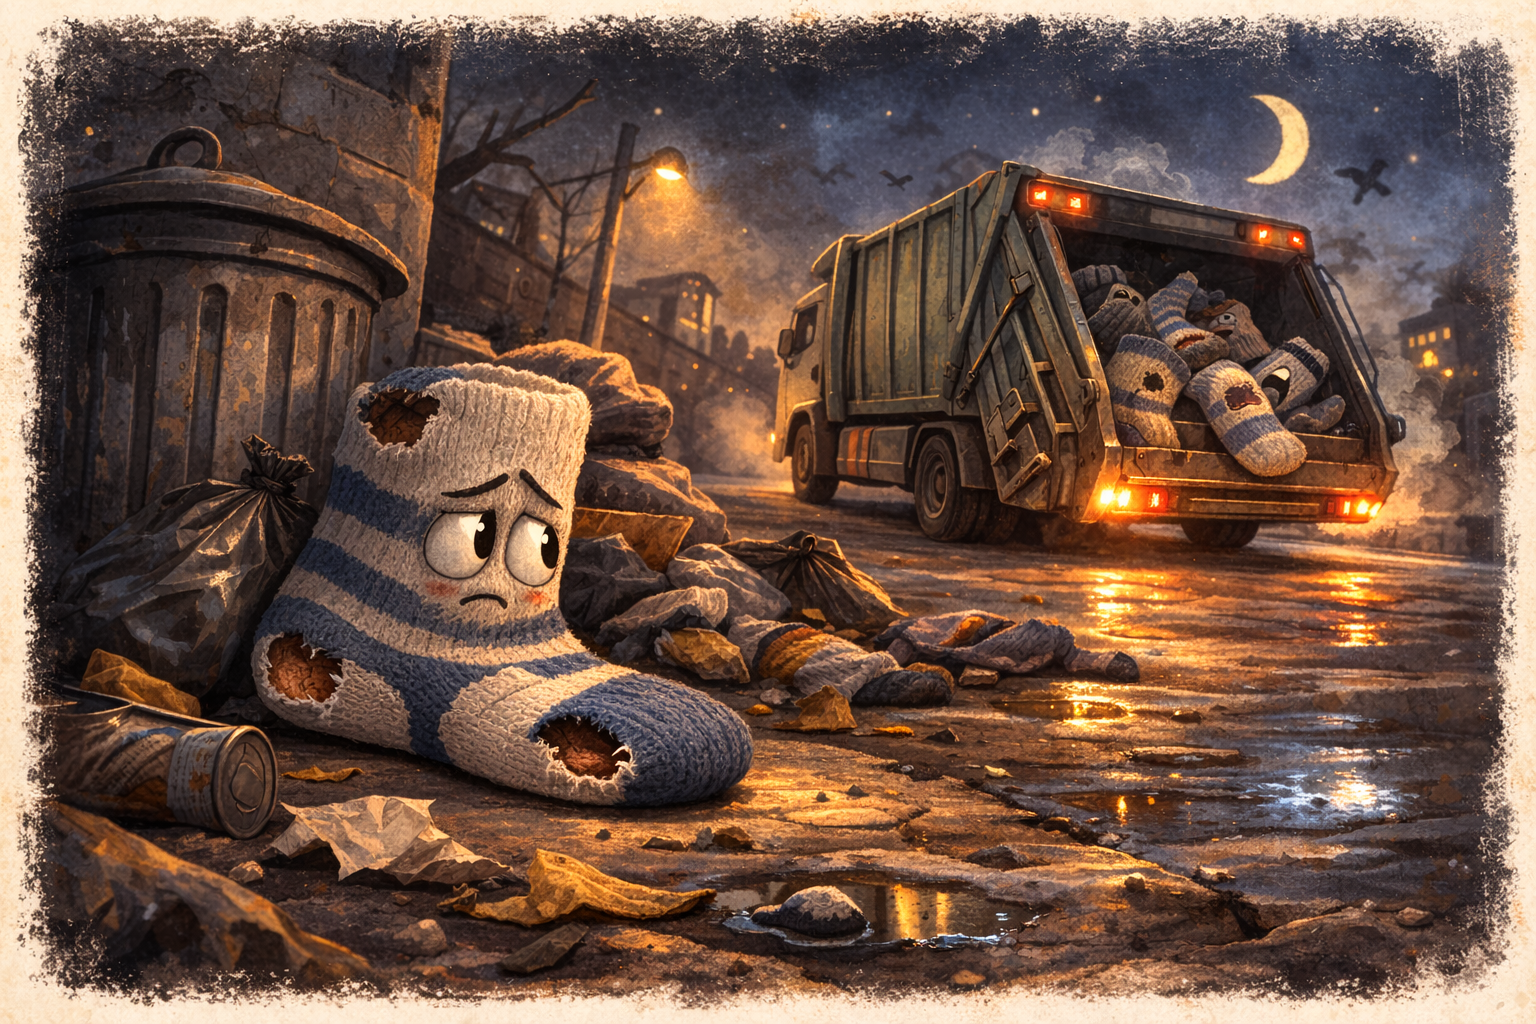
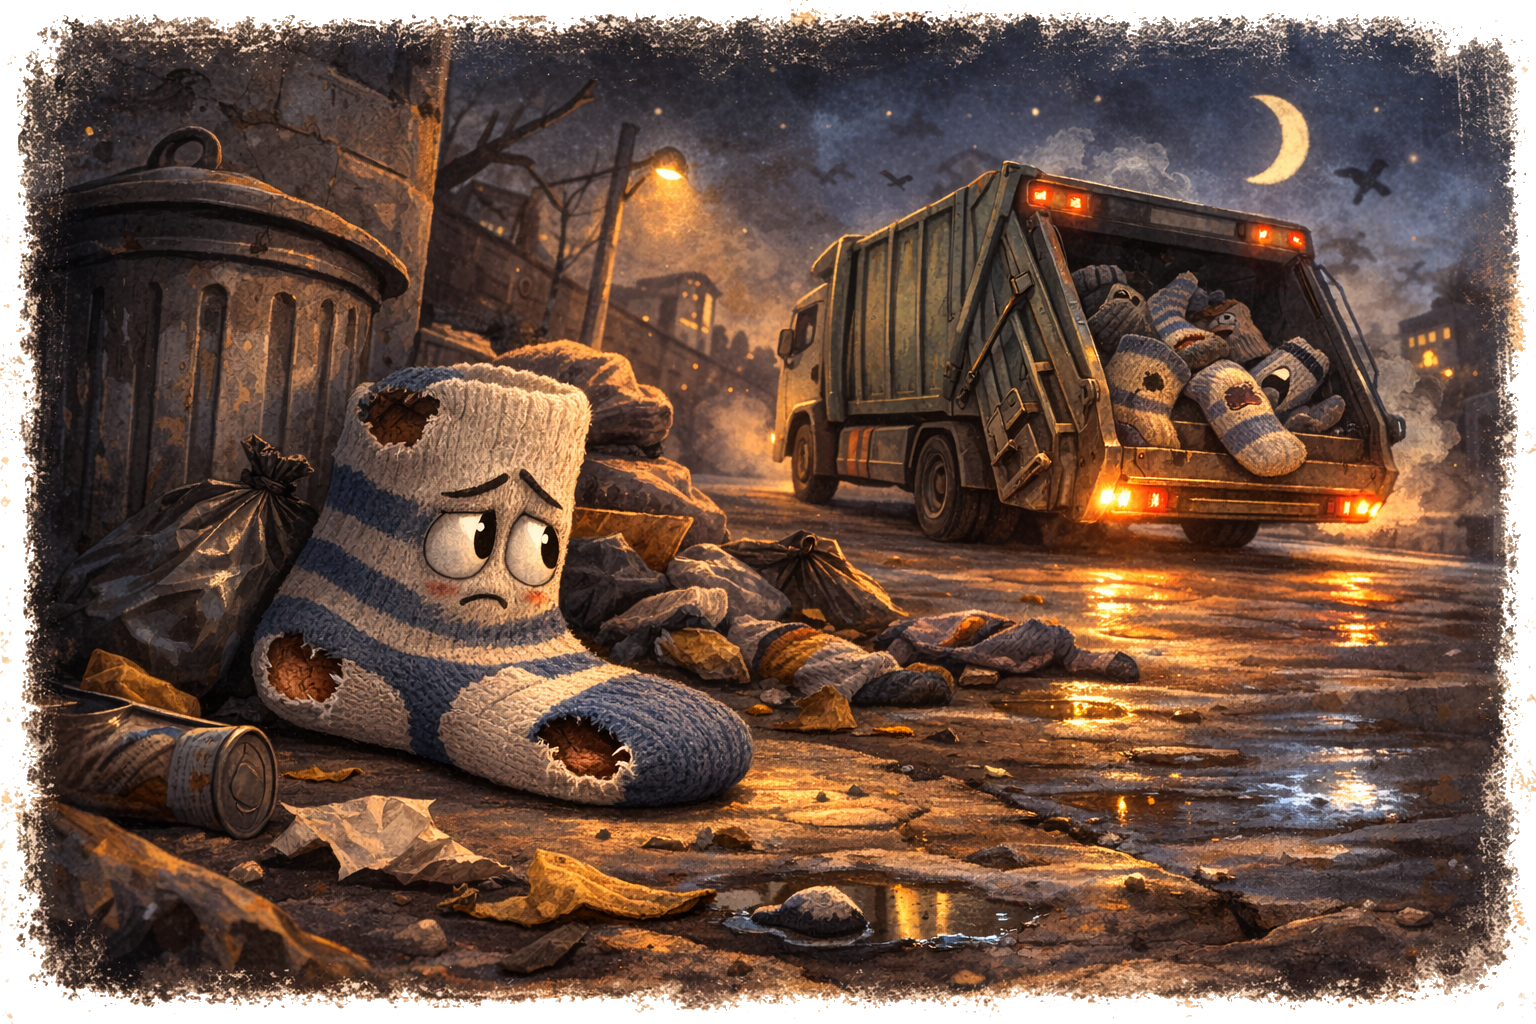
-

Changed region(s): [[0.0, 0.0, 1.0, 1.0]]

diff --git a/_stories/sock.md b/_stories/sock.md
@@ -10,7 +10,7 @@ cover: "/assets/img/sock/poster.png"
 Однажды.. у меня порвался носок!
 Ну, порвался и порвался. С кем не бывает. 
 
-![описание]({{ "/assets/img/sock/1.png" | relative_url }})
+![описание]({{ "/assets/img/sock/1_p.png" | relative_url }})
 
 Но вот, я задумался.
 > Носков же двое?  
@@ -26,7 +26,7 @@ cover: "/assets/img/sock/poster.png"
 И никак иначе. 
 ```
 
-![описание]({{ "/assets/img/sock/2.png" | relative_url }})
+![описание]({{ "/assets/img/sock/2_p.png" | relative_url }})
 
 Другое мне в голову даже не пришло.
 
@@ -55,7 +55,7 @@ cover: "/assets/img/sock/poster.png"
 
 Ты там рождаешься.
 
-![описание]({{ "/assets/img/sock/3.png" | relative_url }})
+![описание]({{ "/assets/img/sock/3_p.png" | relative_url }})
 
 Тебя покупают. 
 
@@ -90,7 +90,7 @@ cover: "/assets/img/sock/poster.png"
 Трагедия.
 ```
 
-![описание]({{ "/assets/img/sock/4.png" | relative_url }})
+![описание]({{ "/assets/img/sock/4_p.png" | relative_url }})
 
 Постойте, но ведь их было двое! 
 А как мы помним, одного из них зовут **Кеша**, а второго **Жора**.
@@ -120,7 +120,7 @@ cover: "/assets/img/sock/poster.png"
 
 Либо его хлопковое бездыханное тело лежит где-то на свалке либо едет в специальной машине, на переработку, в далекое Подмосковье.
 
-![описание]({{ "/assets/img/sock/5.png" | relative_url }})
+![описание]({{ "/assets/img/sock/5_p.png" | relative_url }})
 
 И более того. Он едет туда не один. 
 А с другими, такими же порванными ранее **Кешами**.
@@ -131,6 +131,6 @@ cover: "/assets/img/sock/poster.png"
 
 Такой он, "**носковый**" день сурка.
 
-![описание]({{ "/assets/img/sock/6.png" | relative_url }})
+![описание]({{ "/assets/img/sock/6_p.png" | relative_url }})
 
-[![описание]({{ "/assets/img/sign2.png" | relative_url }})]({{ "/" | relative_url }})
+[![описание]({{ "/assets/img/sign2_p.png" | relative_url }})]({{ "/" | relative_url }})
